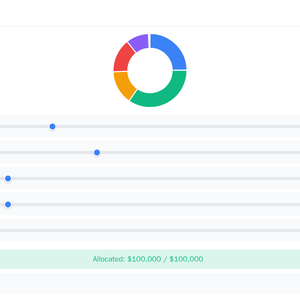
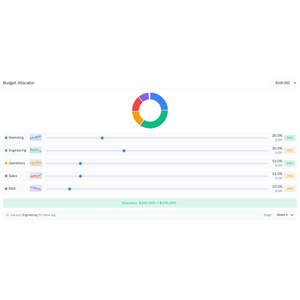
fix: use aspect-fit instead of crop for screenshots
Change from fit: 'cover' (crops) to fit: 'contain' (letterbox)
so the full app content is visible without cropping.

diff --git a/tests/e2e/generate-grid-screenshots.spec.ts b/tests/e2e/generate-grid-screenshots.spec.ts
@@ -5,7 +5,7 @@
  *   # Generate screenshots (starts server automatically via playwright.config):
  *   npm run generate:screenshots
  *
- * Output: examples/<server-dir>/grid-cell.png (300x300 centered fill)
+ * Output: examples/<server-dir>/grid-cell.png (300x300 centered, aspect-fit)
  *
  * For basic-server-* variants, only basic-server-react is included.
  */
@@ -100,7 +100,7 @@ async function loadServer(page: Page, serverName: string) {
 }
 
 /**
- * Capture the app iframe content and save as 300x300 centered-fill image.
+ * Capture the app iframe content and save as 300x300 centered, aspect-fit image.
  */
 async function captureAppScreenshot(page: Page, outputPath: string) {
   const outerFrame = page.frameLocator("iframe").nth(0);
@@ -111,8 +111,9 @@ async function captureAppScreenshot(page: Page, outputPath: string) {
 
   await sharp(screenshot)
     .resize(OUTPUT_SIZE, OUTPUT_SIZE, {
-      fit: "cover",
+      fit: "contain",
       position: "centre",
+      background: { r: 255, g: 255, b: 255, alpha: 1 },
     })
     .png()
     .toFile(outputPath);
